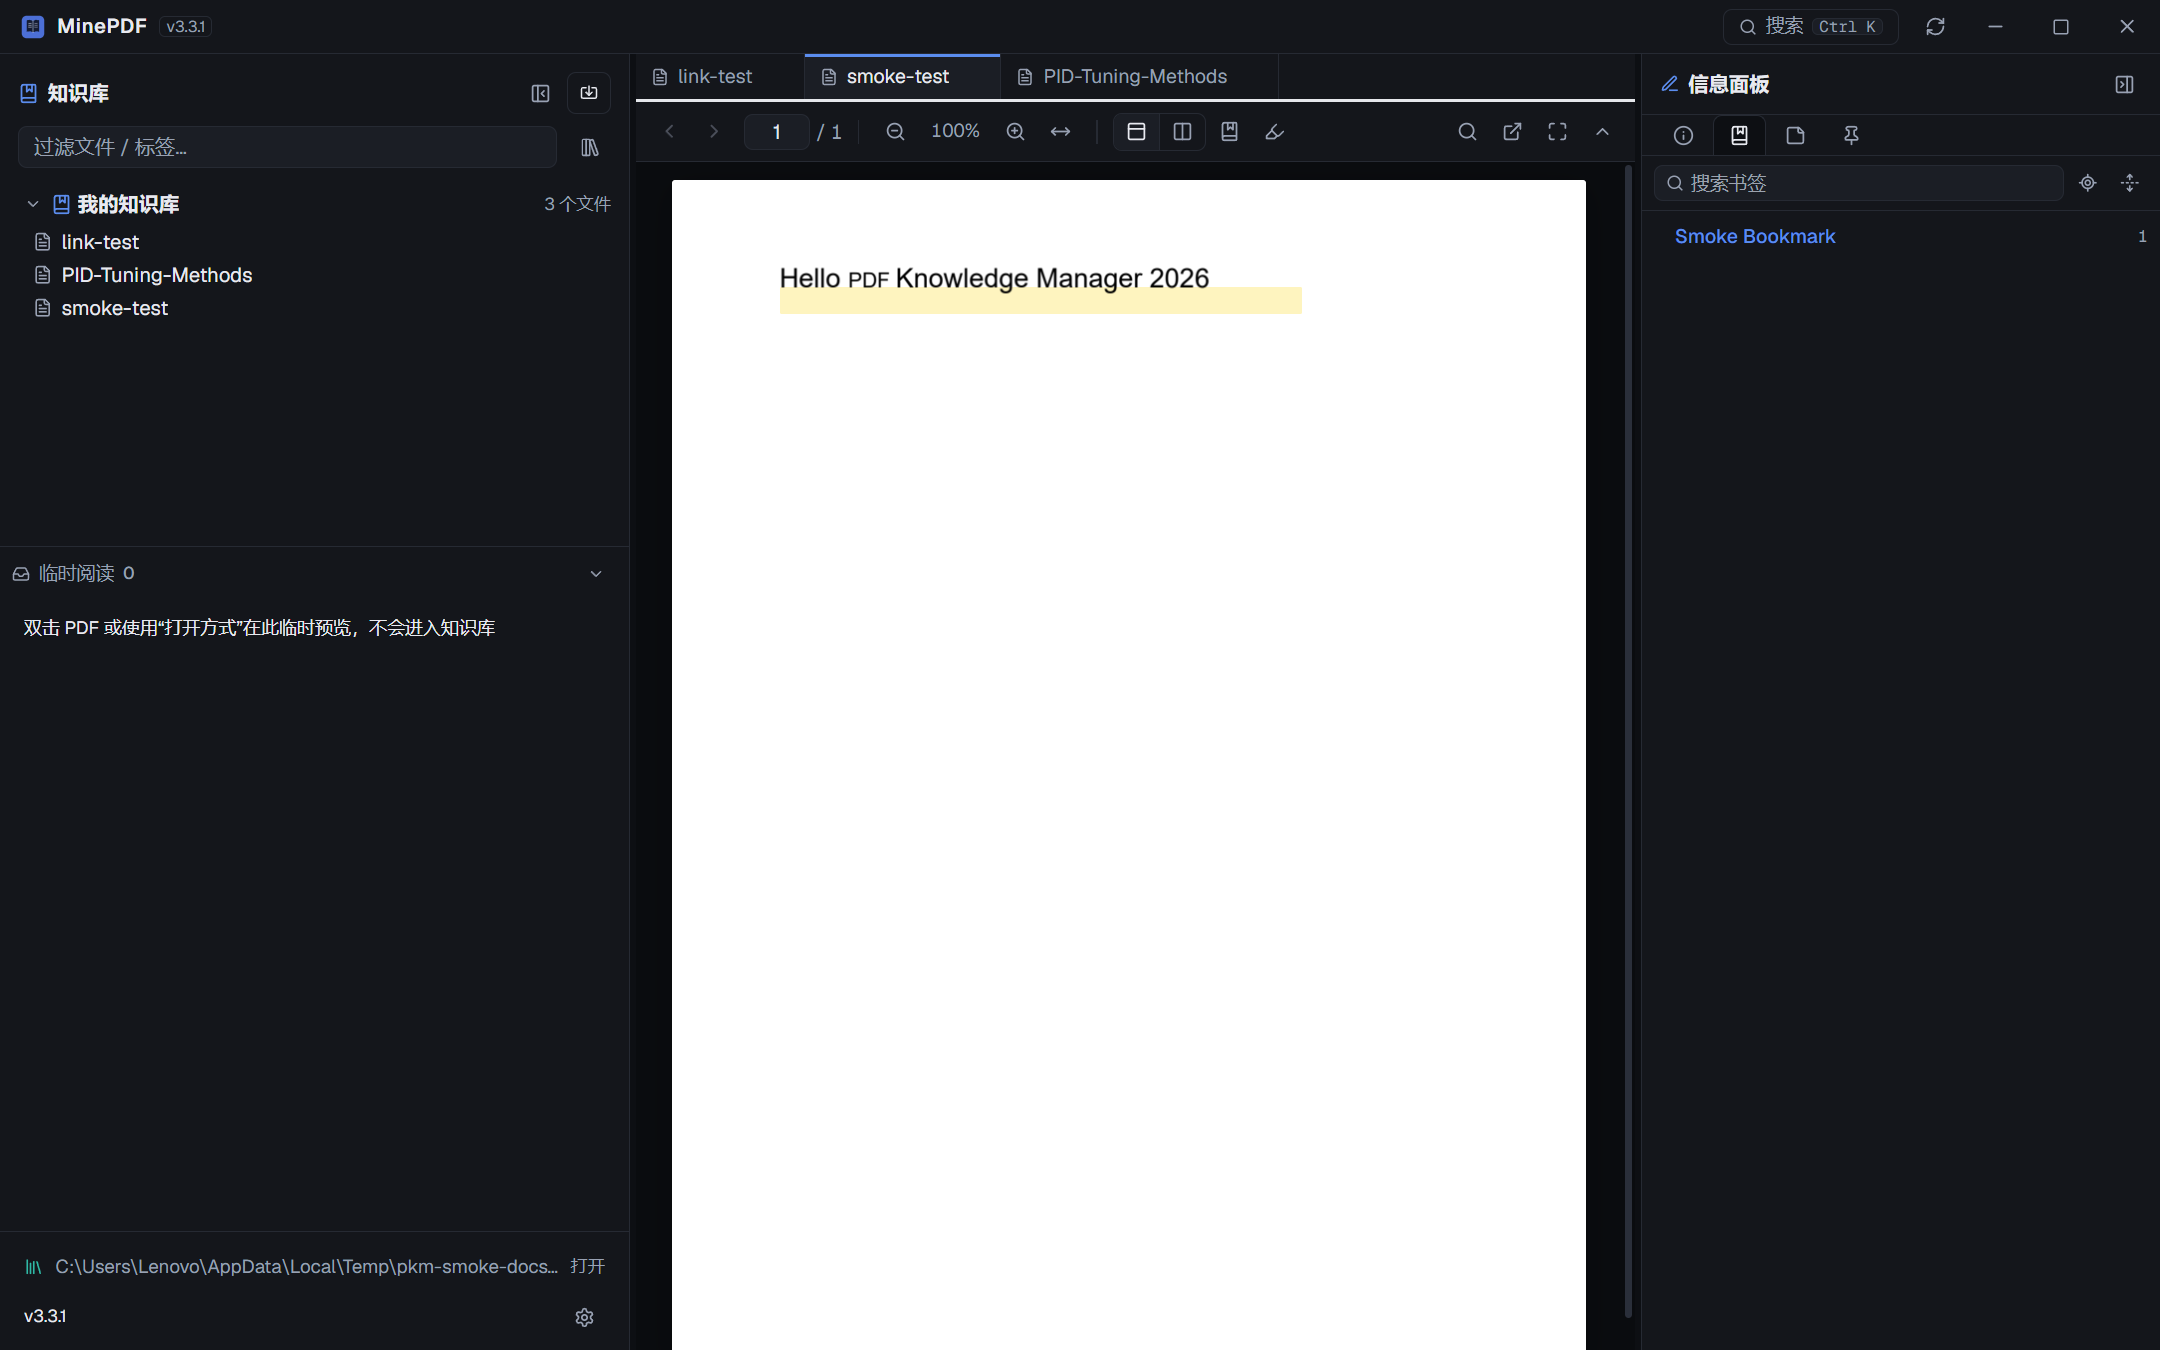
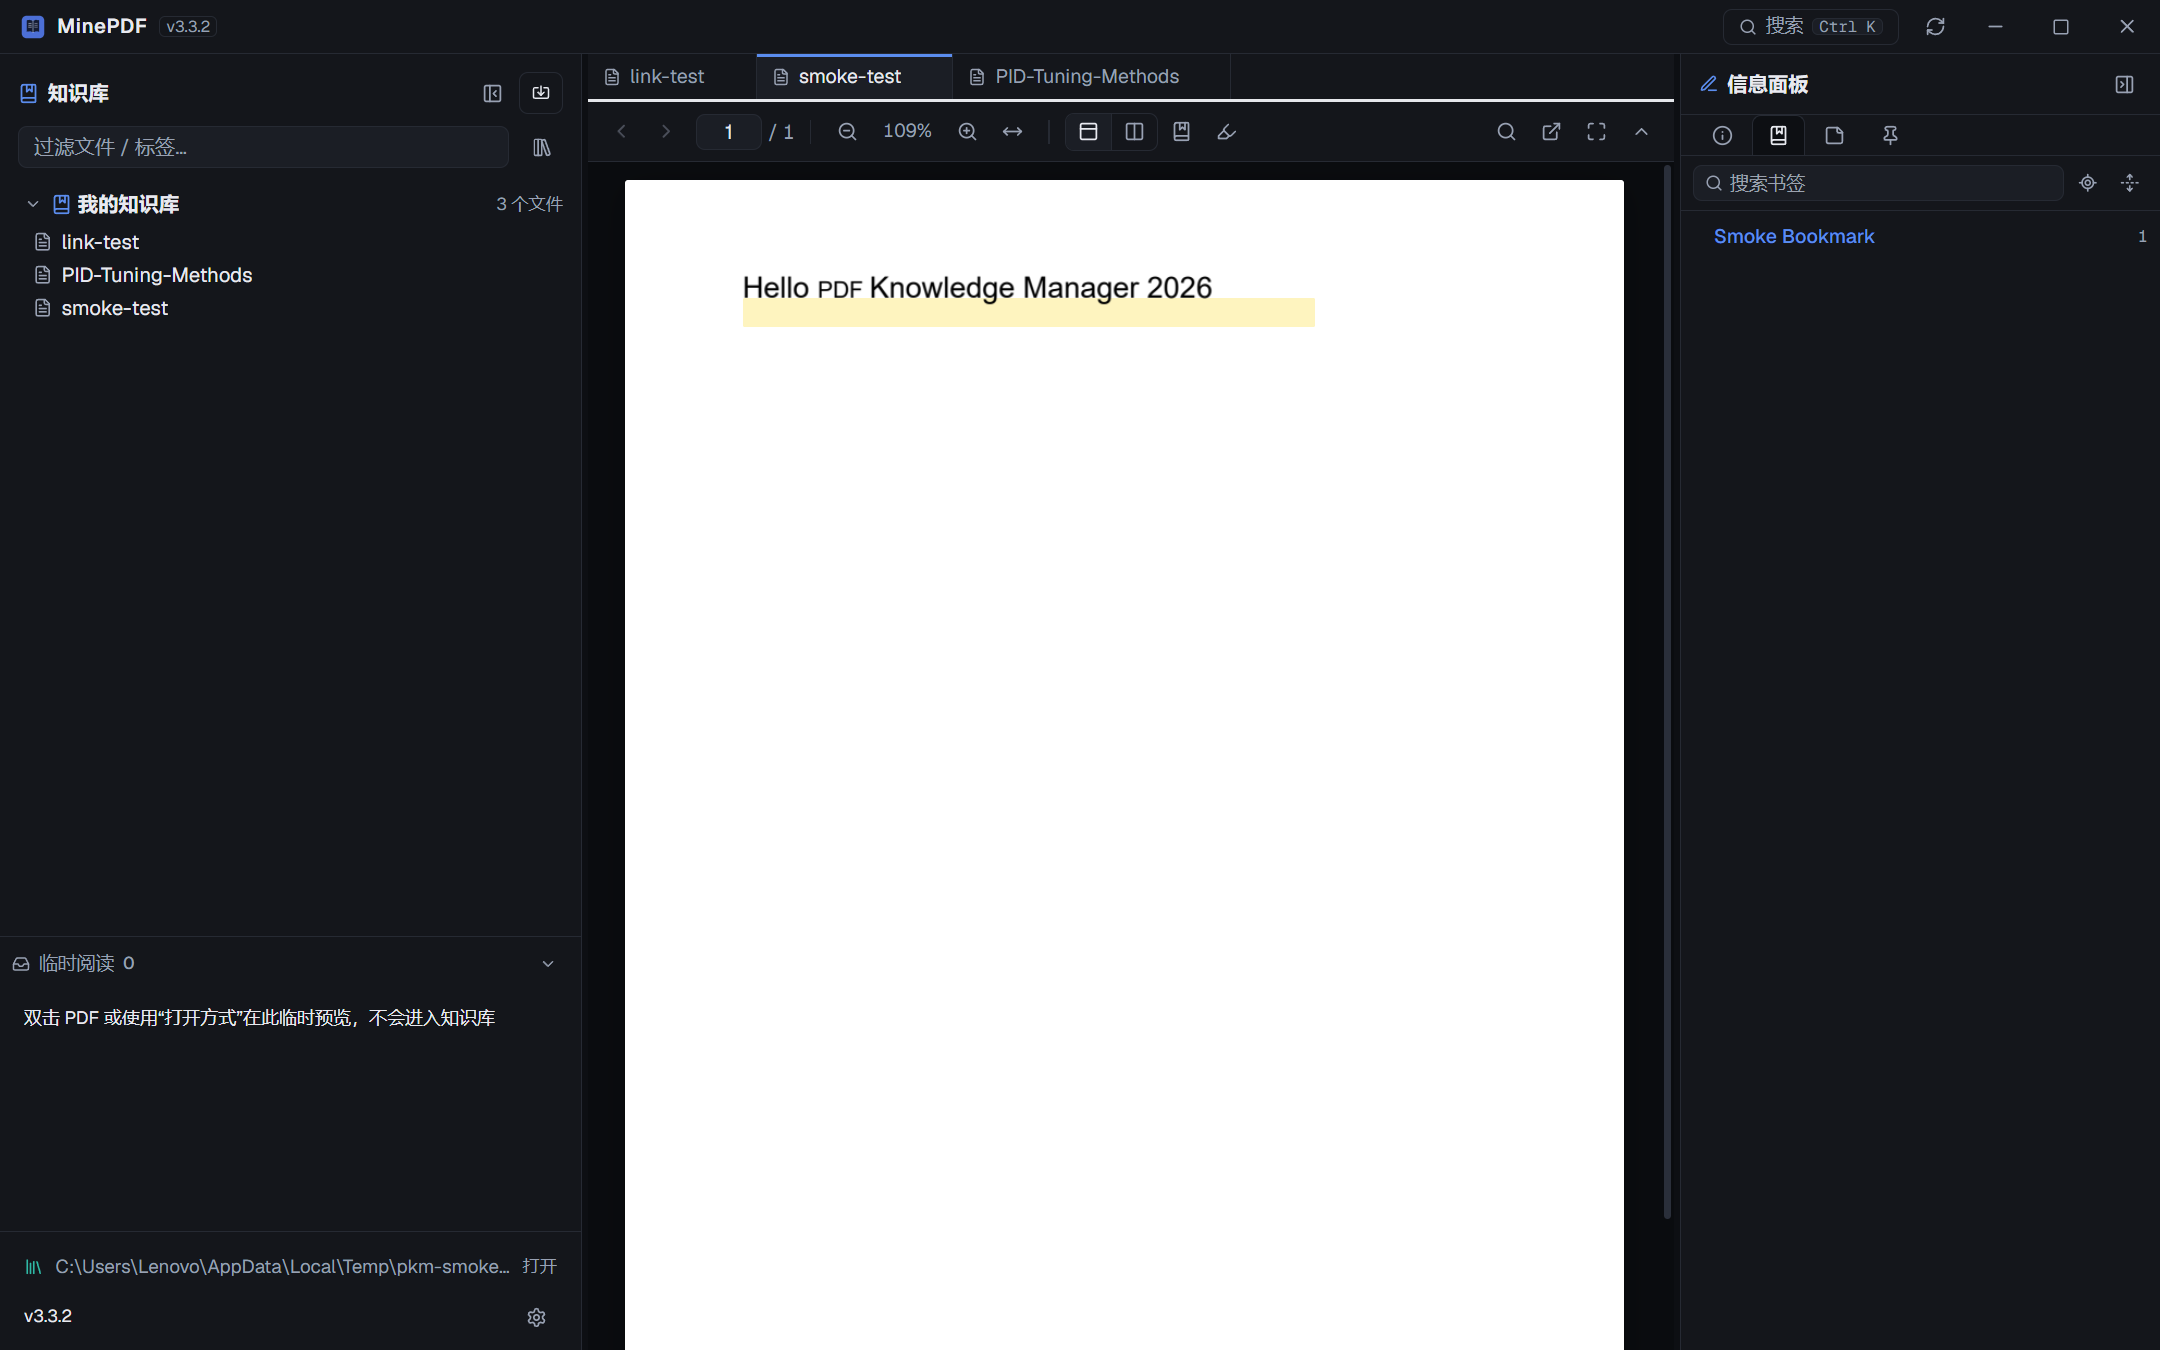
release: v3.3.3 - 修复临时区删除/清空后标签残留，无边框窗口缩放/最大化后标题栏错位重排兜底

diff --git a/electron/main.ts b/electron/main.ts
@@ -251,10 +251,42 @@ async function createMainWindow(): Promise<BrowserWindow> {
     if (smokeTest) console.log(`[renderer:${level}] ${message}`);
   });
 
-  win.on('maximize', () => win.webContents.send('window:maximized-changed', true));
-  win.on('unmaximize', () => win.webContents.send('window:maximized-changed', false));
+  // 无边框窗口（frame:false）在 Windows 上最大化/还原/拖动缩放后，
+  // 偶发“内容整体上移、顶部标题栏被吞”的错位问题。
+  // 这里在状态切换与缩放结束后强制重排并向渲染进程发重排信号兜底修复。
+  let layoutTimer: NodeJS.Timeout | null = null;
+  const reassertLayout = (delay = 120) => {
+    if (layoutTimer) clearTimeout(layoutTimer);
+    layoutTimer = setTimeout(() => {
+      layoutTimer = null;
+      if (win.isDestroyed() || win.isFullScreen() || win.isMaximized()) {
+        win.webContents.send('window:relayout');
+        return;
+      }
+      try {
+        // 用当前 bounds 重设一次，强制 Windows 重同步无边框窗口客户区
+        const b = win.getBounds();
+        win.setBounds(b);
+      } catch {
+        /* ignore */
+      }
+      win.webContents.send('window:relayout');
+    }, delay);
+  };
+  win.on('maximize', () => {
+    win.webContents.send('window:maximized-changed', true);
+    reassertLayout();
+  });
+  win.on('unmaximize', () => {
+    win.webContents.send('window:maximized-changed', false);
+    reassertLayout();
+  });
   win.on('enter-full-screen', () => win.webContents.send('window:fullscreen-changed', true));
-  win.on('leave-full-screen', () => win.webContents.send('window:fullscreen-changed', false));
+  win.on('leave-full-screen', () => {
+    win.webContents.send('window:fullscreen-changed', false);
+    reassertLayout();
+  });
+  win.on('resize', () => reassertLayout(300));
 
   // 先启动加载、后 await：ready-to-show 可能在 loadURL 期间就已触发，
   // 因此必须在下方监听器注册完成后才等待加载结束，避免事件被错过。
@@ -1661,6 +1693,27 @@ async function createMainWindow(): Promise<BrowserWindow> {
                   })()
                 `);
                 console.log('[capture] deleteTabDiag', JSON.stringify(deleteTabDiag));
+                // 临时区删除：inboxRemove 后 refresh 应清理指向该文件的标签页
+                const inboxTabDiag = await win.webContents.executeJavaScript(`
+                  (async () => {
+                    const testPath = ${JSON.stringify(testPdfPath)};
+                    await window.pkm.importPdfs([testPath], null);
+                    const snap = await window.pkm.getSnapshot();
+                    const a = snap.pdfs.find((p) => p.filename === 'smoke-test.pdf');
+                    if (!a) return { pdf: false };
+                    const inboxItem = await window.pkm.inboxAdd(a.filepath);
+                    if (typeof window.__pkmAct === 'function') window.__pkmAct('clearScreens');
+                    window.__pkmOpenPdf(inboxItem.id);
+                    await new Promise((r) => setTimeout(r, 300));
+                    await window.pkm.inboxRemove(inboxItem.id);
+                    if (typeof window.__pkmRefresh === 'function') await window.__pkmRefresh();
+                    await new Promise((r) => setTimeout(r, 300));
+                    const st = window.__pkmStore();
+                    const gone = !st.screens.some((sc) => sc.tabs.some((t) => t.pdfId === inboxItem.id));
+                    return { pdf: true, inbox: !!inboxItem, gone, screensLeft: st.screens.length };
+                  })()
+                `);
+                console.log('[capture] inboxTabDiag', JSON.stringify(inboxTabDiag));
                 // 外部 PDF 桥：主进程发送 app:external-pdf，渲染进程应复制进临时区
                 win.webContents.send('app:external-pdf', testPdfPath);
                 await new Promise((r) => setTimeout(r, 2500));

diff --git a/src/components/Sidebar.tsx b/src/components/Sidebar.tsx
@@ -357,7 +357,8 @@ export function Sidebar() {
   const removeInboxPdf = async (id: number) => {
     try {
       await window.pkm.inboxRemove(id);
-      setInboxPdfs(inboxPdfs.filter((p) => p.id !== id));
+      // refresh 会同步临时区并清理指向已删除文件的标签页
+      await refresh();
       toast('success', t('inbox.removed'));
     } catch (err) {
       toast('error', terr(err instanceof Error ? err.message : String(err)));
@@ -373,7 +374,7 @@ export function Sidebar() {
       action: async () => {
         try {
           await window.pkm.inboxClear();
-          setInboxPdfs([]);
+          await refresh();
           toast('success', t('inbox.cleared'));
         } catch (err) {
           toast('error', terr(err instanceof Error ? err.message : String(err)));

diff --git a/src/App.tsx b/src/App.tsx
@@ -130,6 +130,14 @@ export default function App() {
     return window.pkm.onLibraryChanged(() => void refresh());
   }, [refresh]);
 
+  // 无边框窗口缩放/最大化后由主进程通知重排，强制刷新 CSS 布局避免标题栏错位
+  useEffect(() => {
+    const off = window.pkm.onWindowRelayout(() => {
+      window.dispatchEvent(new Event('resize'));
+    });
+    return off;
+  }, []);
+
   // 系统用 MinePDF 打开 PDF（双击 / 打开方式）→ 复制进临时区并预览
   useEffect(() => {
     const off = window.pkm.onExternalPdf((filePath) => {

diff --git a/electron/preload.ts b/electron/preload.ts
@@ -121,6 +121,7 @@ const api: PkmApi = {
   isMaximized: () => invoke('window:is-maximized'),
   onFullScreenChange: (cb) => subscribe('window:fullscreen-changed', (v) => cb(Boolean(v))),
   onMaximizedChange: (cb) => subscribe('window:maximized-changed', (v) => cb(Boolean(v))),
+  onWindowRelayout: (cb) => subscribe('window:relayout', () => cb()),
   onLibraryChanged: (cb) => subscribe('library:changed', () => cb()),
   onUpdateAvailable: (cb) =>
     subscribe('update:available', (v) => cb(v as never)),

diff --git a/src/shared/types.ts b/src/shared/types.ts
@@ -267,6 +267,8 @@ export interface PkmApi {
   isMaximized(): Promise<boolean>;
   onFullScreenChange(cb: (v: boolean) => void): () => void;
   onMaximizedChange(cb: (v: boolean) => void): () => void;
+  /** 主进程通知窗口布局需重排（无边框窗口缩放/最大化后） */
+  onWindowRelayout(cb: () => void): () => void;
   onLibraryChanged(cb: () => void): () => void;
   onUpdateAvailable(cb: (r: UpdateResult) => void): () => void;
 
